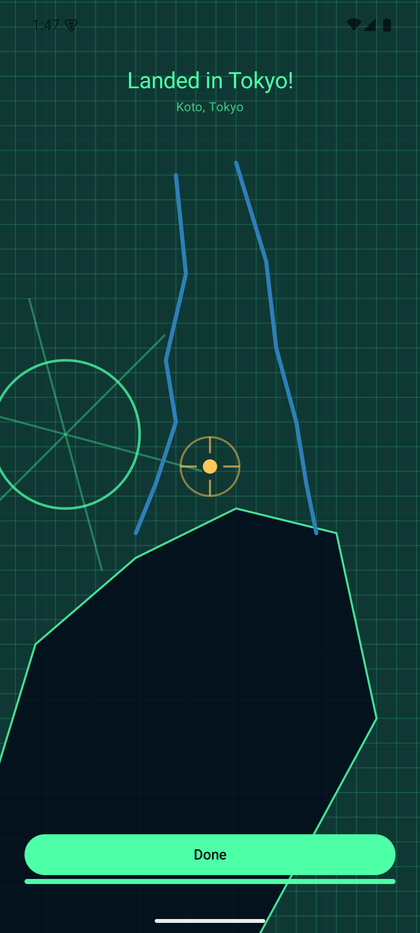
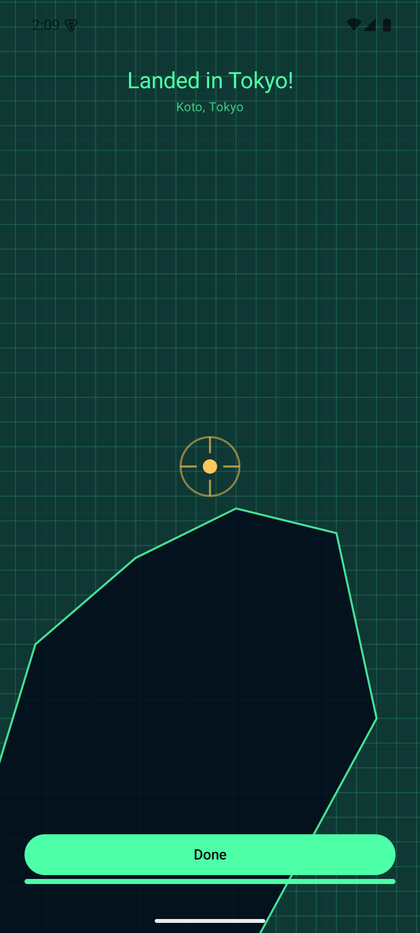
Take the rivers and the loop line off the landing map
The Sumida, the Arakawa and the circle round the centre of Tokyo were
each drawn from a handful of hand-placed points. Once the map is close
enough for them to read as distinct features it is close enough for the
invention to show, and the loop in particular sat as a pale polygon in
the middle of the crosshair at exactly the moment the eye is on it.

What is left is what those few points can honestly carry: the coast of
Kanto with Tokyo Bay cut into it, the block grid clipped to the land,
and the crosshair on Koto.

Verified on the emulator from 51km down to touchdown. The three README
assets that show the map - the descent still, the landing still and the
flight GIF - are re-shot. 125 tests, lint clean.

Claude-Session: https://claude.ai/code/session_01MKtmmxPPWXys8KKnXqGUdj

diff --git a/app/src/main/kotlin/com/pebbledetective/ui/journey/EarthMap.kt b/app/src/main/kotlin/com/pebbledetective/ui/journey/EarthMap.kt
@@ -13,7 +13,6 @@ import com.pebbledetective.ui.theme.SignalAmber
 import kotlin.math.cos
 import kotlin.math.min
 import kotlin.math.pow
-import kotlin.math.sin
 
 /** A point on the globe, in degrees. */
 data class LonLat(val lon: Double, val lat: Double)
@@ -51,7 +50,7 @@ private class Viewport(val centre: LonLat, spanDegrees: Double, size: Size) {
  * The last leg of the journey: the whole of Japan zooming in to the streets
  * of Koto, with the pebble dropping into the middle of it.
  *
- * Deliberately schematic - coastlines, a bay, the loop line and a river -
+ * Deliberately schematic - coastlines, a bay and a grid of streets -
  * rather than a map. It reads as the detective's display rather than
  * pretending to be satellite imagery, which keeps it of a piece with the
  * schematic planets earlier in the flight.
@@ -137,8 +136,8 @@ private fun DrawScope.drawIslands(view: Viewport, alpha: Float) {
  * simply where the land is not - which is what makes the bay recognisable.
  *
  * @param alpha the coastline itself.
- * @param detail the streets, the loop line and the river, which only earn
- *   their place once the map is close enough for them to be distinct.
+ * @param detail the streets, which only earn their place once the map is
+ *   close enough for them to be distinct.
  */
 private fun DrawScope.drawKanto(view: Viewport, alpha: Float, detail: Float) {
     val land = Path()
@@ -156,53 +155,9 @@ private fun DrawScope.drawKanto(view: Viewport, alpha: Float, detail: Float) {
 
     if (detail <= 0.01f) return
 
-    // Clipped to the land, so no road runs out across the water.
+    // Clipped to the land, so the grid stops at the water.
     clipPath(land) {
         drawBlocks(view, detail)
-
-        // The Yamanote loop, the most recognisable shape in the city from
-        // above, with the main roads radiating out of it.
-        val hub = view.project(YAMANOTE_CENTRE)
-        val rim = view.project(LonLat(YAMANOTE_CENTRE.lon, YAMANOTE_CENTRE.lat + LOOP_DEGREES))
-        val loop = hub.y - rim.y
-
-        // Stubs out of the hub, not lines across the whole screen: drawn
-        // full length they stopped reading as roads and became a star.
-        val reach = loop * 1.9f
-        for (i in 0 until 6) {
-            val angle = Math.toRadians(i * 60.0 + 15.0)
-            drawLine(
-                color = ScannerGreen.copy(alpha = detail * 0.35f),
-                start = hub,
-                end = Offset(
-                    hub.x + (cos(angle) * reach).toFloat(),
-                    hub.y + (sin(angle) * reach).toFloat(),
-                ),
-                strokeWidth = 2f * density,
-            )
-        }
-        if (loop > 2f) {
-            drawCircle(
-                color = ScannerGreen.copy(alpha = detail * 0.75f),
-                radius = loop,
-                center = hub,
-                style = Stroke(width = 2.5f * density),
-            )
-        }
-    }
-
-    // The Sumida and the Arakawa, with Koto between them as it really is.
-    for (course in listOf(SUMIDA, ARAKAWA)) {
-        val river = Path()
-        course.forEachIndexed { index, point ->
-            val at = view.project(point)
-            if (index == 0) river.moveTo(at.x, at.y) else river.lineTo(at.x, at.y)
-        }
-        drawPath(
-            path = river,
-            color = RIVER.copy(alpha = detail),
-            style = Stroke(width = 4f * density, cap = StrokeCap.Round),
-        )
     }
 }
 
@@ -236,8 +191,6 @@ private fun DrawScope.drawBlocks(view: Viewport, alpha: Float) {
 /** About a kilometre, which is roughly a block of central Tokyo. */
 private const val BLOCK = 0.01
 
-/** The radius of the loop line, in degrees of latitude. */
-private const val LOOP_DEGREES = 0.030
 
 /** The target: a closing crosshair while falling, then the impact. */
 private fun DrawScope.drawLandingSite(
@@ -307,12 +260,10 @@ private fun DrawScope.drawFallingPebble(view: Viewport, zoom: Float, alpha: Floa
 }
 
 private val SEA = Color(0xFF04121E)
-private val RIVER = Color(0xFF2E7FB8)
 
 private const val COUNTRY_SPAN = 15.0
 private const val SITE_SPAN = 0.17
 private val COUNTRY_CENTRE = LonLat(137.5, 37.6)
-private val YAMANOTE_CENTRE = LonLat(139.7450, 35.6850)
 
 // Coarse outlines: these are drawn a few hundred pixels across and are meant
 // to read as a diagram, not as a chart anyone could navigate by.
@@ -364,14 +315,3 @@ private val KANTO = listOf(
     LonLat(138.30, 35.50), LonLat(138.40, 36.00),
 )
 
-/** The Sumida, north to south into the bay, west of Koto. */
-private val SUMIDA = listOf(
-    LonLat(139.800, 35.790), LonLat(139.805, 35.750), LonLat(139.795, 35.715),
-    LonLat(139.800, 35.690), LonLat(139.790, 35.665), LonLat(139.780, 35.645),
-)
-
-/** The Arakawa, east of Koto. */
-private val ARAKAWA = listOf(
-    LonLat(139.830, 35.795), LonLat(139.845, 35.755), LonLat(139.850, 35.720),
-    LonLat(139.860, 35.690), LonLat(139.865, 35.665), LonLat(139.870, 35.645),
-)

diff --git a/IMPLEMENTATION_PLAN.md b/IMPLEMENTATION_PLAN.md
@@ -651,3 +651,9 @@ End-to-end pass, run on both the AVD (`pebble_test`, webcam pointed at a pebble)
   sleep after a screen change is a guess, and the one before the radar
   shot was occasionally a frame short, which killed a whole run on its
   last step.
+- **The city furniture came off the landing map.** The rivers and the
+  loop line around the centre were drawn from a handful of points each,
+  and once the map is close enough for them to be distinct they are
+  close enough for the invention to show. What is left is what the few
+  points can honestly carry: the coast of Kanto with Tokyo Bay cut into
+  it, a block grid clipped to the land, and the crosshair on Koto.
